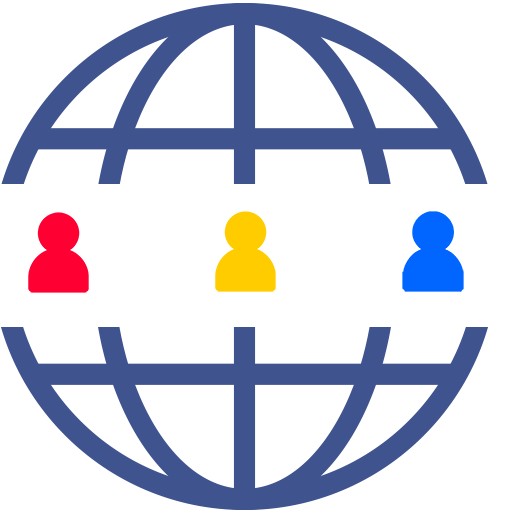
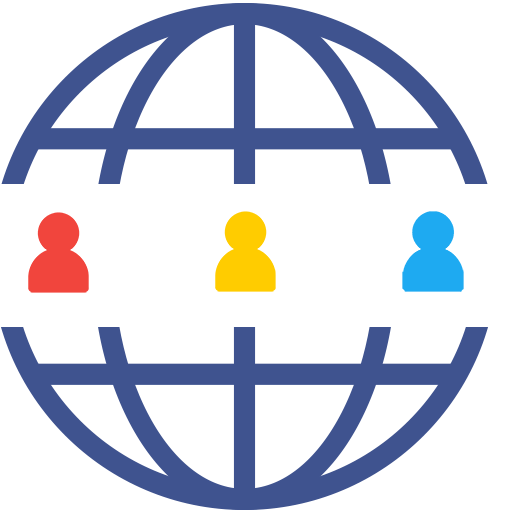
simpler bots faces

Changed region(s): [[0.0312, 0.4062, 0.1875, 0.5938], [0.7812, 0.4062, 0.9062, 0.5938]]

diff --git a/src/app/welcome/welcome.component.html b/src/app/welcome/welcome.component.html
@@ -102,19 +102,19 @@
       <div fxLayout="column" fxLayoutAlign="center center">
         <div>manual</div>
         <div><button class="W3AI-button" mat-button (click)="onSetManual(3000)"
-            [ngStyle]="{color: getStatusButtonManual()}"><b>></b></button></div>
+            [ngStyle]="{color: getStatusButtonManual()}"><b><</b></button></div>
         <div>control</div>
       </div>
       <div fxLayout="column" fxLayoutAlign="center center">
           <div>autopilot</div>
         <div><button class="W3AI-button" mat-button (click)="onSetSprint(100)"
-            [ngStyle]="{color: getStatusButtonMarathon()}"><b>>></b></button></div>
+            [ngStyle]="{color: getStatusButtonMarathon()}"><b><<</b></button></div>
         <div>control & speed</div>
       </div>
       <div fxLayout="column" fxLayoutAlign="center center">
         <div>innovate</div>
         <div><button class="W3AI-button" mat-button (click)="onSetRun(10)"
-            [ngStyle]="{color: getStatusButtonHackathon()}"><b>>>></b></button></div>
+            [ngStyle]="{color: getStatusButtonHackathon()}"><b><<<</b></button></div>
         <div>max speed</div>
       </div>
     </div>
@@ -364,7 +364,7 @@
         <div class="header" fxLayout="row" fxLayoutAlign="center center">
           <div id="left" fxFlex="27%">
             <p>
-              <br><span class="side-title">Progress Teams</span><br>
+              <br><span class="side-title">Brains Teams</span><br>
               Links<sup>2</sup>: {{ superFriendsNo }}<br>
               Projects: {{ superProjectsNo }}<br>
               Services: {{ superServicesNo }}<br>
@@ -390,7 +390,7 @@
           <div id="right" fxFlex="27%">
             <div fxLayout fxLayoutAlign="end end">
               <p>
-                <br><span class="side-title">Office Teams</span><br>
+                <br><span class="side-title">Cells Teams</span><br>
                 friends<sup>2</sup>: {{ officeFriendsNo }}<br>
                 projects: {{ officeProjectsNo }}<br>
                 skills: {{ officeServicesNo }}<br>
@@ -437,12 +437,12 @@
   <section class="clone" fxLayout="row" fxLayoutGap="40px">
     <div class="open-source" fxLayout="column" fxLayoutAlign="center end">
       <p><b>FREE W3AI.ORG</b></p>
-      <p><b><a href="https://w3ai.org">The Web Brain</a></b></p>
+      <p><b><a href="https://w3ai.org">Social Brains</a></b></p>
       <p>EDU, ORG</p>
     </div>
     <div class="enterprise" fxLayout="column" fxLayoutAlign="center ">
       <p><b>OPEN W3AI.NET</b></p>
-      <p><b><a href="https://w3ai.net">World Class Teams</a></b></p>
+      <p><b><a href="https://w3ai.net">Business Brains</a></b></p>
       <p>GOV, COM</p>
     </div>
   </section>
@@ -454,7 +454,7 @@
   </a>
 -->
 
-  <h1>Fair Progress Web</h1>
+  <h1>Fair Brains</h1>
 </section>
 
 <div class="welcome" fxLayout="row" fxLayoutGap="0px"  fxLayoutGap.gt-xs="20px" fxLayoutAlign="center center">
@@ -506,13 +506,13 @@
 
 <div class="welcome">
   <h1>Web's Neocortex</h1>
-  <p>Distributed Progress Network Open 24/7</p>
+  <p>Decentralized Brains' Web Open 24/7</p>
   <p>3 Types of Bots in W3AI OS format:</p>
   <p>Project bot, Venture bot, Service bot</p>
   <p>Build & share Projects, Skills & Teams</p>
   <p>with web services providers & consumers</p>
   <p>Live transformation of Ideas in Services</p>
-  <p>3 Progress Bots cloned on your OS loop</p>
+  <p>3 Brains Bots cloned on your OS loop</p>
   <p>for online and offline operation 24/7</p>
   <p>Maximize use of your groups resources</p>
   <p>Fair distribution of benefits to all players.</p>
@@ -552,7 +552,7 @@
     <p>and</p>
     <p>thosands supporters, advisers & testers</p>
     <p>-</p>
-    <h3 id="thankyou-title">inspired by the work of</h3>
+    <h3 id="thankyou-title">inspired by the brains of</h3>
     <p>Stephen Hawking</p>
     <p>Noam Chomsky</p>
     <p>Marvin Minsky</p>
@@ -575,13 +575,13 @@
 
 <p><q>... the greatest invention of the 19th century was the invention of the method of invention.</q><br><i>Alfred North Whitehead</i></p>
 <p>-</p>
-<h3>Run your W3AI<br>Innovation Accelerator<br>on the web technologies<br>of the<br>21<sup>st</sup> Century</h3>
+<h3>Run your W3AI<br>Brains Accelerator<br>on the cloud technologies<br>of the<br>21<sup>st</sup> Century</h3>
 <p>-</p>
 
 </div>
 
   <ul class="footer">
-    <li><a href="https://github.com/W3AI/Global-OS">Clone your Progress OS @ GitHub</a></li>
-    <li>Progress Engine PoC 0.8</li>
+    <li><a href="https://github.com/W3AI/Global-OS">Clone your Brains OS @ GitHub</a></li>
+    <li>Brain Engine PoC 0.8</li>
     <li>© Ianta Labs / MIT License</li>  
 </ul>

diff --git a/src/app/navigation/header/header.component.ts b/src/app/navigation/header/header.component.ts
@@ -16,7 +16,7 @@ import { SetupService } from '../../setup.service';
 export class HeaderComponent implements OnInit {
   @Output() sidenavToggle = new EventEmitter<void>();
   isAuth$: Observable<boolean>;
-  appTitle = 'Progress Accelerator';
+  appTitle = 'Brains OS';
 
   constructor(private store: Store<fromRoot.State>, 
               private authService: AuthService,

diff --git a/src/app/welcome/welcome.component.css b/src/app/welcome/welcome.component.css
@@ -247,8 +247,10 @@ table {
 }
 
 .W3AI-button {
+    
     font-family: arial, sans-serif;
     font-size: small;
+    color: whitesmoke;
     margin: 0px;
     padding: 0px;
     border: 0px;
